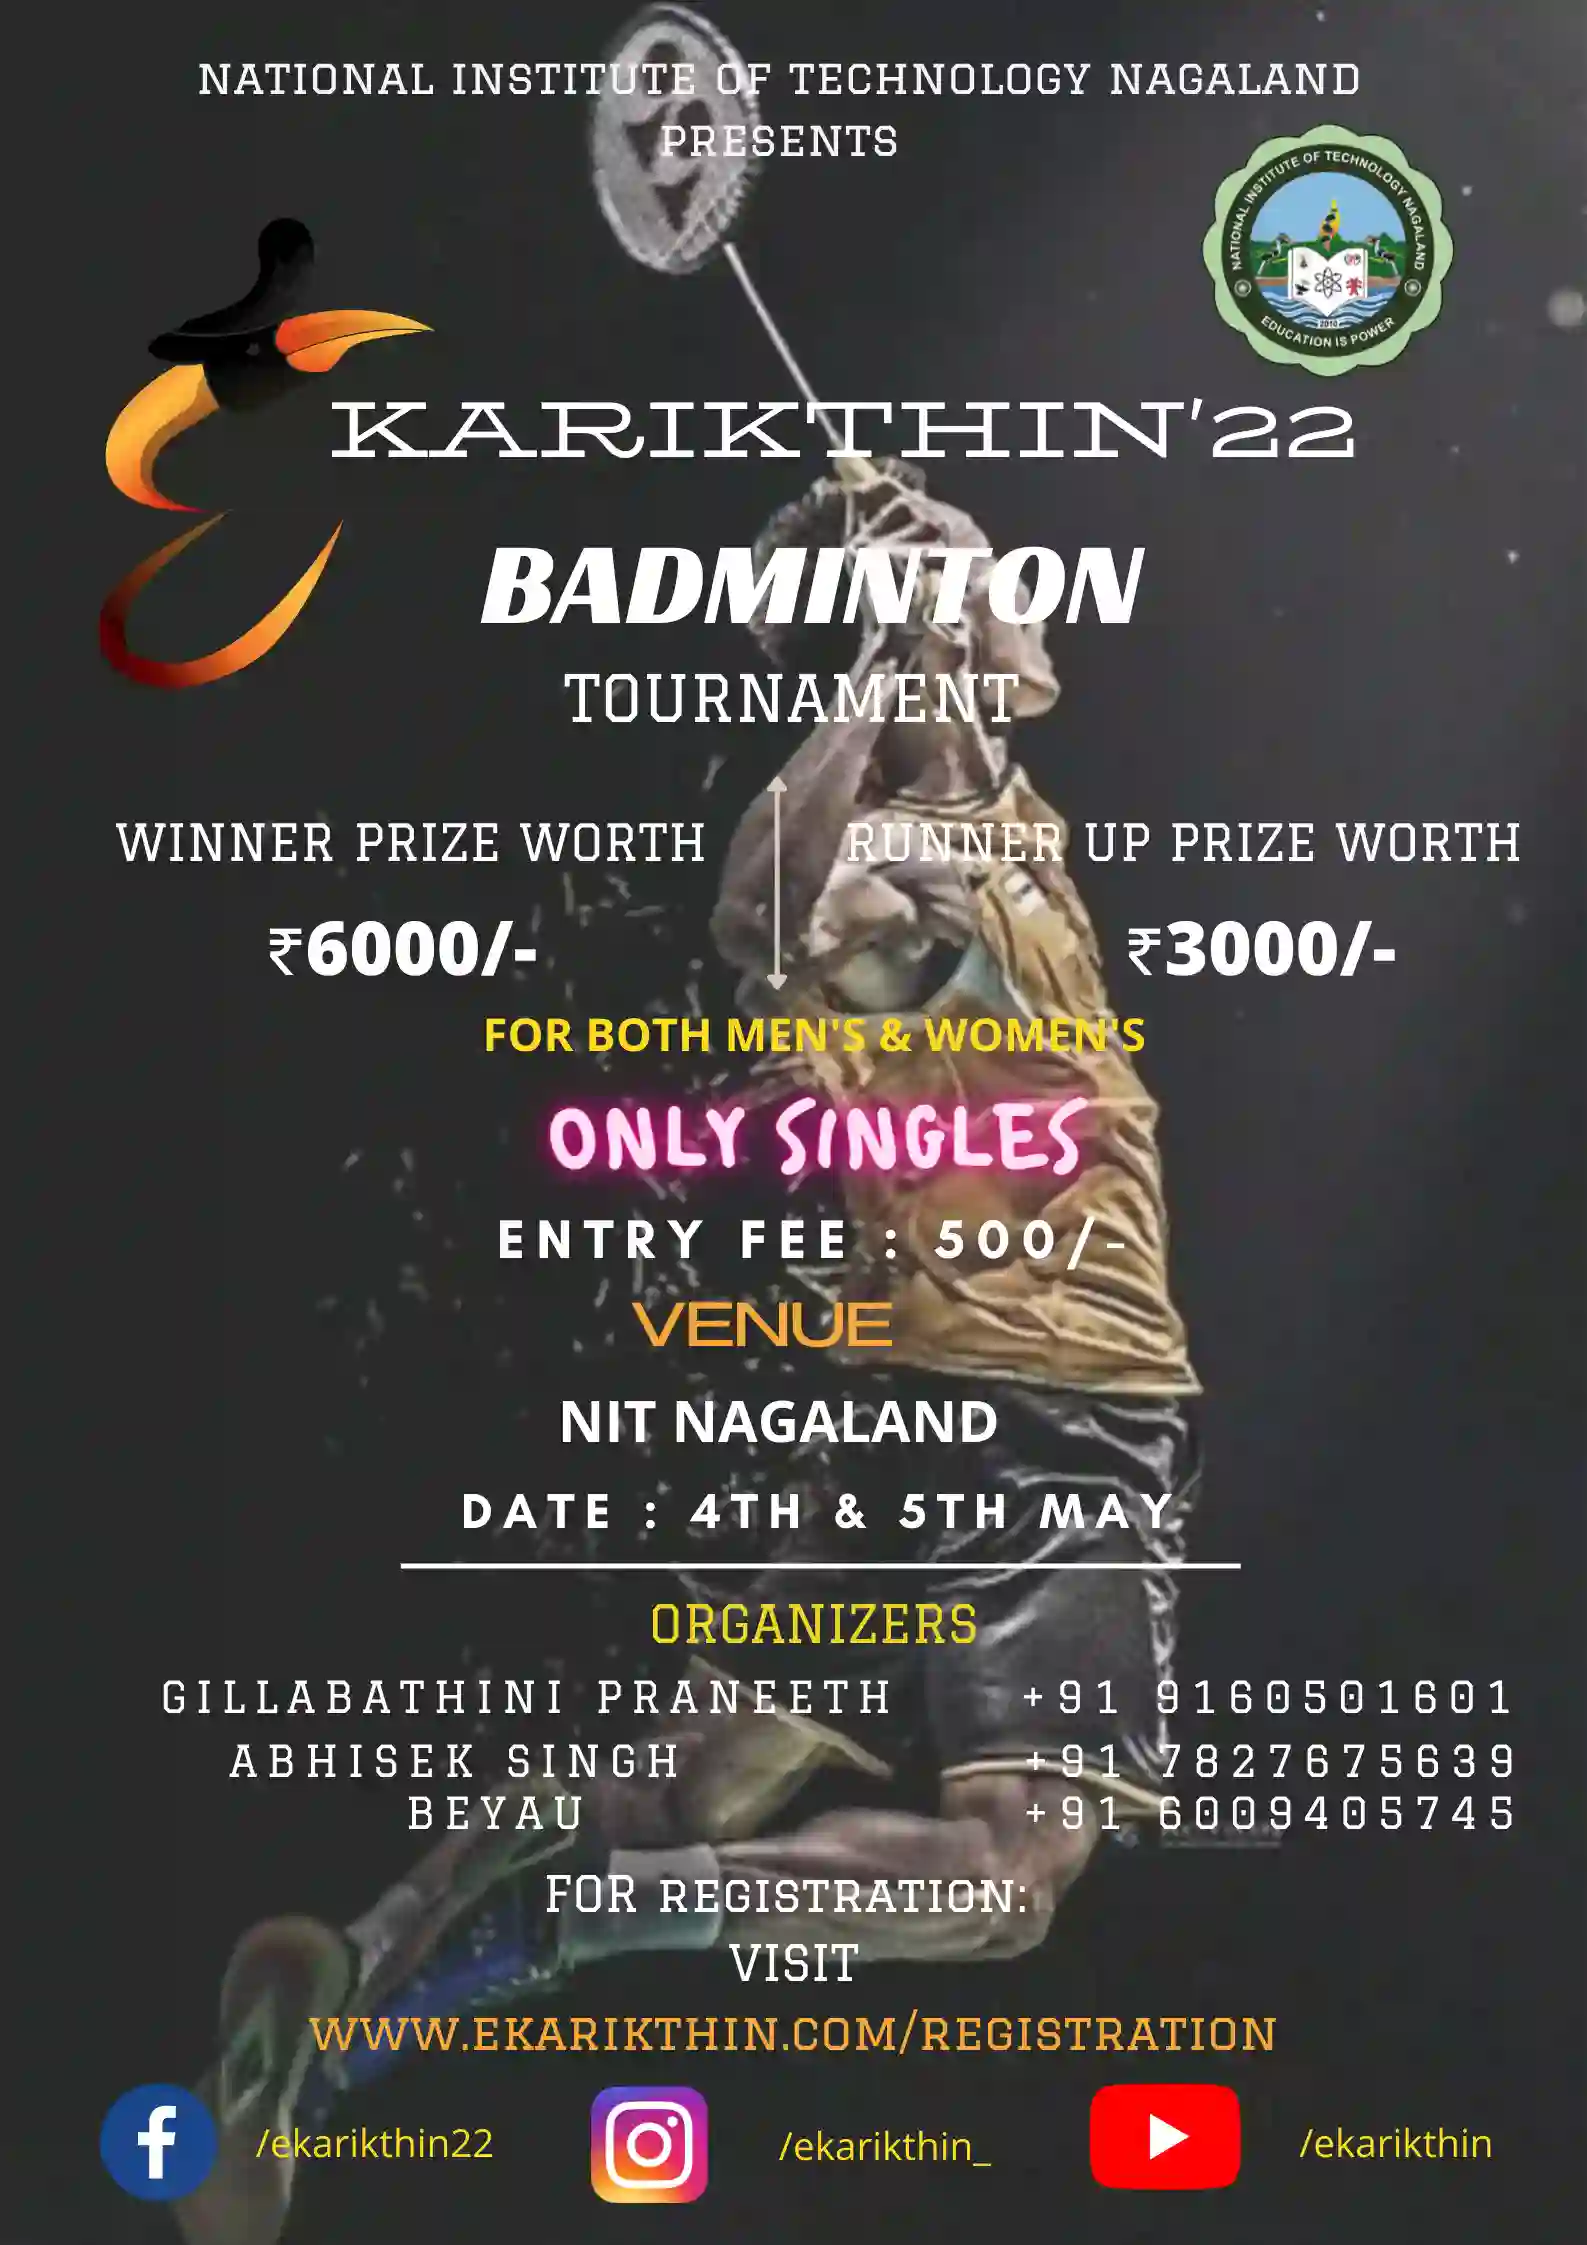
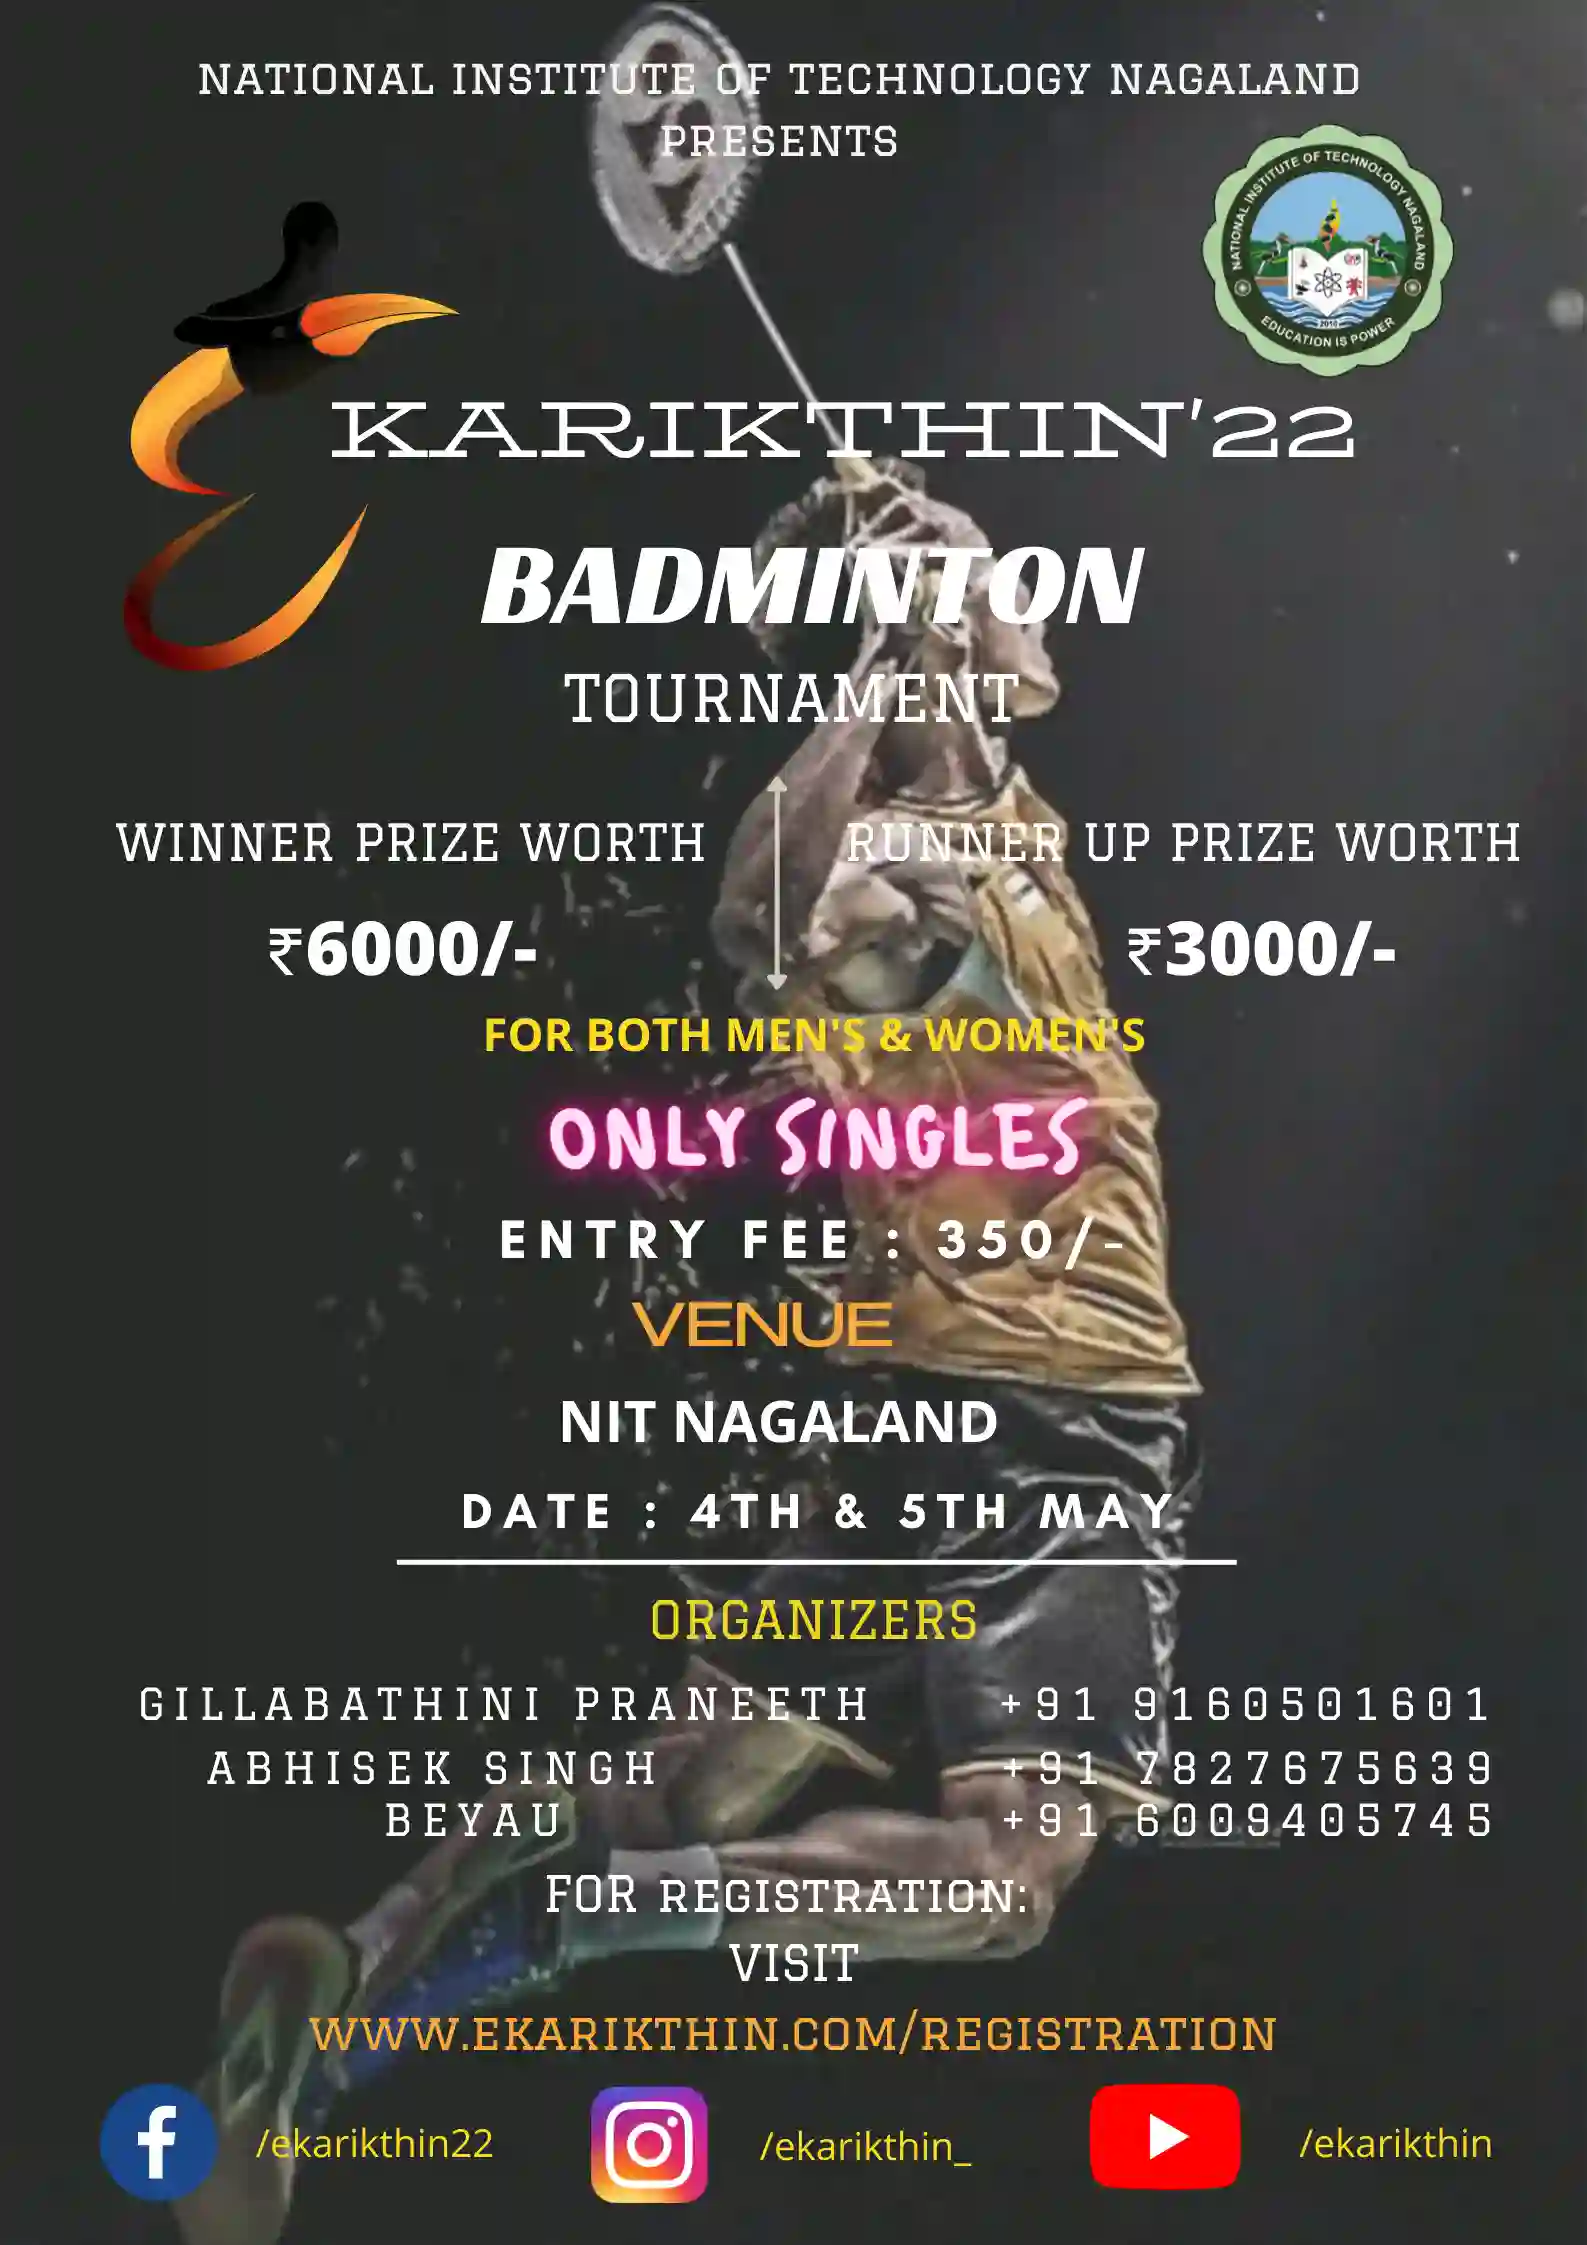
Event changes

diff --git a/frontend/src/utils/Events.js b/frontend/src/utils/Events.js
@@ -94,7 +94,7 @@ export const eventCost = {
   SPT_GC: 500,
   SPT_CH: 200,
   SPT_FTSL: 500,
-  SPT_BD: 500,
+  SPT_BD: 350,
   SPT_MB: 400,
   MNE_TH: 0,
   MNE_WP: 50,
@@ -297,7 +297,7 @@ export const events = {
       price: getEventCost(categories[1], "CIVIL WITH CIVICUS"),
       image: "/posters/civil.webp",
       description:
-        "Presentation on Construction wastages and their Management with Urban and Rural development",
+        "Presentation on Construction wastages and their Management with Urban and Rural development in Nagaland",
       date: DAY1,
       day: 1,
       venue: "Bamboo Clasroom - 2",
